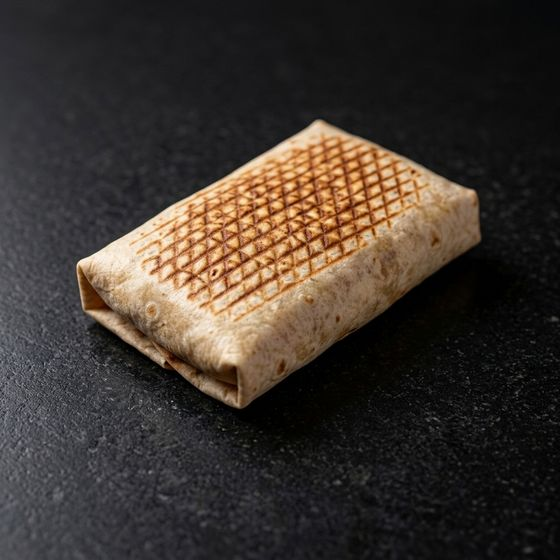
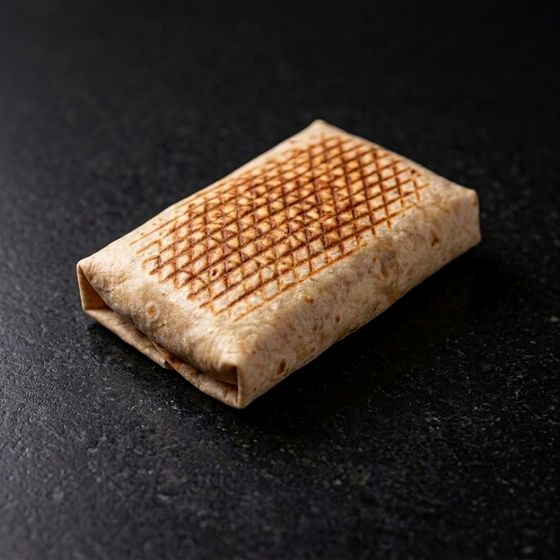
Photos: ajout Riz Crousty, Perrier, Red Bull, Capri-Sun + nouveau visuel Tacos 1 viande

diff --git a/public/app.js b/public/app.js
@@ -67,7 +67,7 @@ const MENU = [
   // ── Nos Assiettes (riz maison, frites maison, salade, sauce) ──
   { id:'assiettes-1-viande', cat:'assiettes', name:'Assiette 1 viande', desc:'Servie avec riz maison, frites maison, salade et sauce. 1 viande au choix.', price:13.00, emoji:'🍽', img:'assiettes-1-viande.jpg', tag:'Populaire', tagClass:'tag-top' },
   { id:'assiettes-2-viandes', cat:'assiettes', name:'Assiette 2 viandes', desc:'Servie avec riz maison, frites maison, salade et sauce. 2 viandes au choix.', price:15.00, emoji:'🍽', img:'assiettes-1-viande.jpg' },
-  { id:'assiettes-riz-crousty', cat:'assiettes', name:'Riz Crousty', desc:'Riz basmati maison, tenders de poulet, sauce fromagère maison, sauce chili thaï et oignons crispy.', price:10.00, emoji:'🍚' },
+  { id:'assiettes-riz-crousty', cat:'assiettes', name:'Riz Crousty', desc:'Riz basmati maison, tenders de poulet, sauce fromagère maison, sauce chili thaï et oignons crispy.', price:10.00, emoji:'🍚', img:'assiettes-riz-crousty.jpg' },
 
   // ── Nos Cheesy Box ──
   { id:'cheesy-frite', cat:'cheesy', name:'Cheesy Frite', desc:'Frites maison, sauce fromagère maison et lardons de dinde.', price:5.00, emoji:'🧀', img:'cheesy-frite.jpg' },
@@ -90,10 +90,10 @@ const MENU = [
   { id:'boissons-coca-cola', cat:'boissons', name:'Coca-Cola', desc:'Canette 33 cl.', price:1.50, emoji:'🥤', img:'boissons-coca-cola.jpg' },
   { id:'boissons-oasis-pomme-cassis', cat:'boissons', name:'Oasis Pomme Cassis Framboise', desc:'Canette 33 cl.', price:1.50, emoji:'🥤', img:'boissons-oasis-pomme-cassis.jpg' },
   { id:'boissons-oasis-tropical', cat:'boissons', name:'Oasis Tropical', desc:'Canette 33 cl.', price:1.50, emoji:'🥤', img:'boissons-oasis-tropical.jpg' },
-  { id:'boissons-perrier', cat:'boissons', name:'Perrier', desc:'Canette 33 cl.', price:1.50, emoji:'🥤' },
+  { id:'boissons-perrier', cat:'boissons', name:'Perrier', desc:'Canette 33 cl.', price:1.50, emoji:'🥤', img:'boissons-perrier.jpg' },
   { id:'boissons-ice-tea', cat:'boissons', name:'Ice Tea', desc:'Boisson froide à base de thé, 33 cl.', price:1.50, emoji:'🧃', img:'boissons-ice-tea.jpg' },
-  { id:'boissons-capri-sun', cat:'boissons', name:'Capri-Sun', desc:'Poche 20 cl.', price:1.50, emoji:'🧃' },
-  { id:'boissons-redbull', cat:'boissons', name:'Red Bull', desc:'Canette énergisante 25 cl.', price:2.00, emoji:'⚡' },
+  { id:'boissons-capri-sun', cat:'boissons', name:'Capri-Sun', desc:'Poche 20 cl.', price:1.50, emoji:'🧃', img:'boissons-capri-sun.jpg' },
+  { id:'boissons-redbull', cat:'boissons', name:'Red Bull', desc:'Canette énergisante 25 cl.', price:2.00, emoji:'⚡', img:'boissons-redbull.jpg' },
 ];
 
 const CAT_NAMES = {
